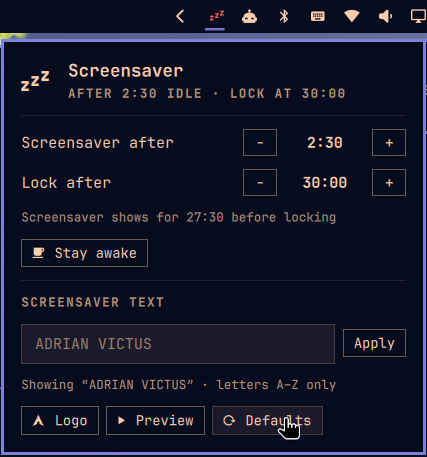
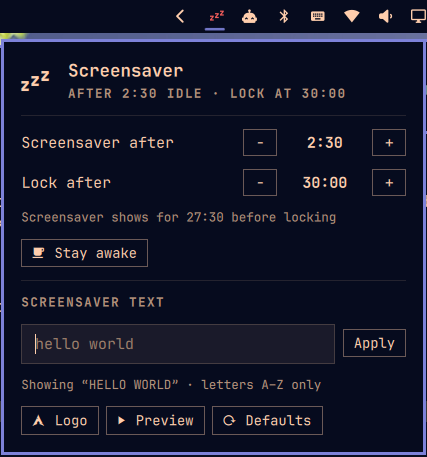
Refresh screensaver word when the popup opens; retake popup screenshot
The word can be changed outside the popup (bin/set-word), so re-read it on
every open and clear any stale status message.

diff --git a/Widget.qml b/Widget.qml
@@ -31,6 +31,15 @@ BarWidget {
   property bool stayAwake: false
   property bool popupOpen: false
 
+  // The word can also be changed outside the popup (bin/set-word), so read
+  // it fresh each time the popup opens and drop any stale status message.
+  onPopupOpenChanged: {
+    if (!popupOpen) return
+    wordMessage = ""
+    wordError = false
+    wordFile.reload()
+  }
+
   // Values the +/- buttons step through.
   readonly property var steps: [15, 30, 45, 60, 90, 120, 150, 180, 240, 300, 420, 600,
                                 900, 1200, 1800, 2700, 3600, 5400, 7200]
